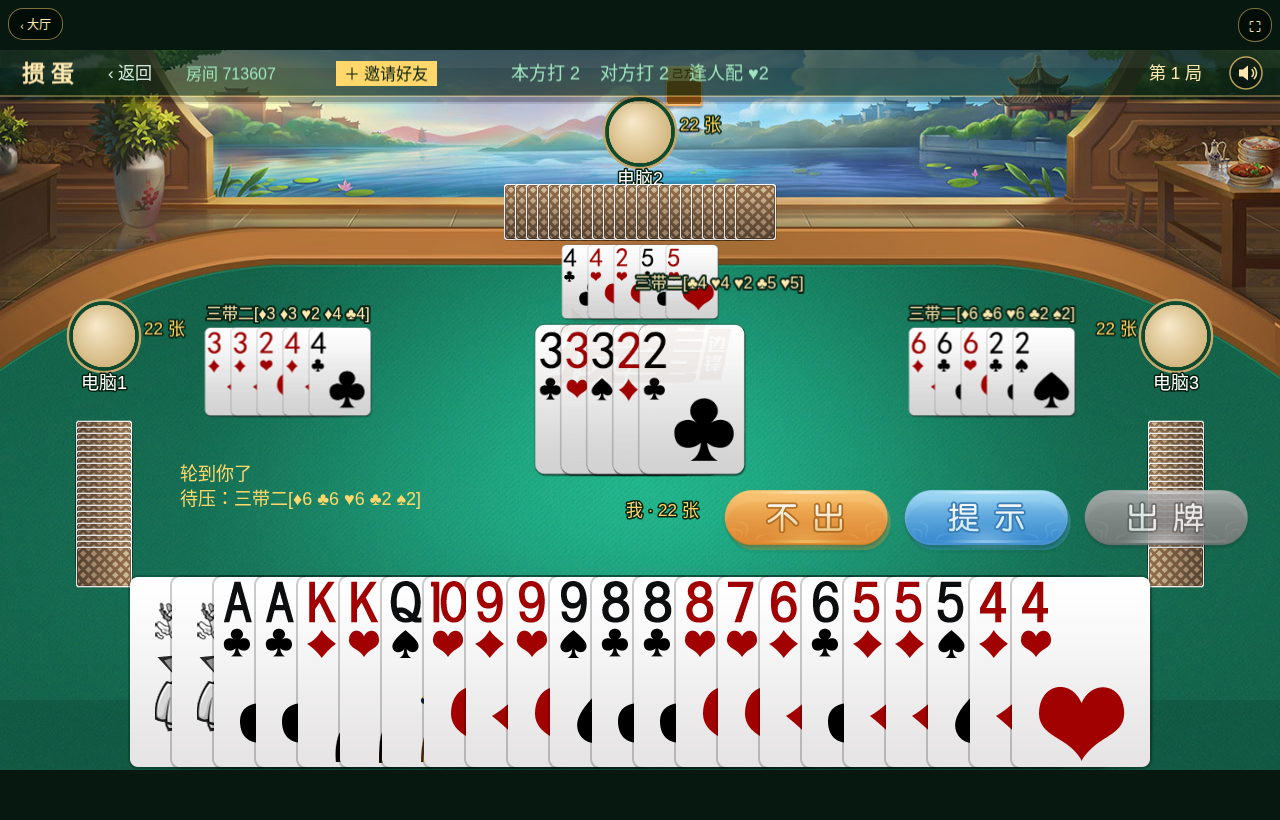
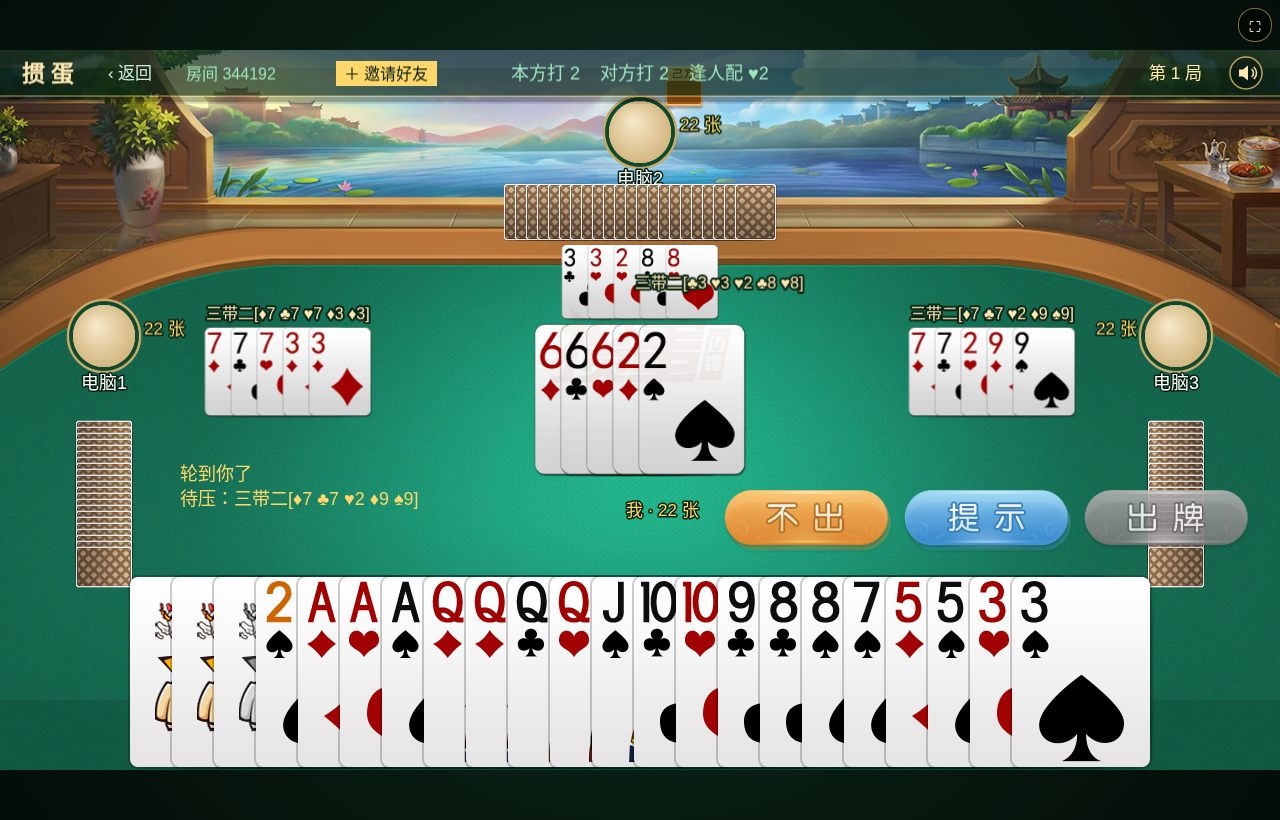
fix(gd): 竖屏下触摸坐标按全局横屏角度逆变换，修复点牌和按钮无响应
- table.vue 原来固定 setForcedRotation(0)，而全局横屏已把 uni-app 根元素顺时针转 90 度，
  导致 Phaser 触摸坐标错位（点屏幕中心得到画布 (360,640)，应为 (640,360)），手机上点牌选不中、点不出牌
- 新增 applyRotation()：按 innerHeight > innerWidth 判定竖屏，传 90 / 0
- resize、orientationchange、全屏切换后都会重算，横屏与桌面保持 0

diff --git a/web/src/pages/gd/table.vue b/web/src/pages/gd/table.vue
@@ -158,10 +158,22 @@ export default
         cancelAnimationFrame(this.rafId)
         this.rafId = requestAnimationFrame(() =>
         {
-          setForcedRotation(0)
-          setTimeout(() => setForcedRotation(0), 120)
+          this.applyRotation()
+          setTimeout(() => this.applyRotation(), 120)
         })
       })
+    },
+
+    /**
+     * 同步「容器是否被旋转」给 Phaser：
+     * 全局横屏在竖屏时会把 uni-app 根元素顺时针转 90°，触摸坐标必须按同一角度做逆变换，
+     * 否则点手牌/点按钮全部错位（竖屏下表现为「点不动、出不了牌」）。
+     */
+    applyRotation()
+    {
+      const deg = window.innerHeight > window.innerWidth ? 90 : 0
+
+      setForcedRotation(deg)
     },
 
     /** 首次触摸页面时尝试全屏：浏览器要求全屏必须发生在用户手势里 */
